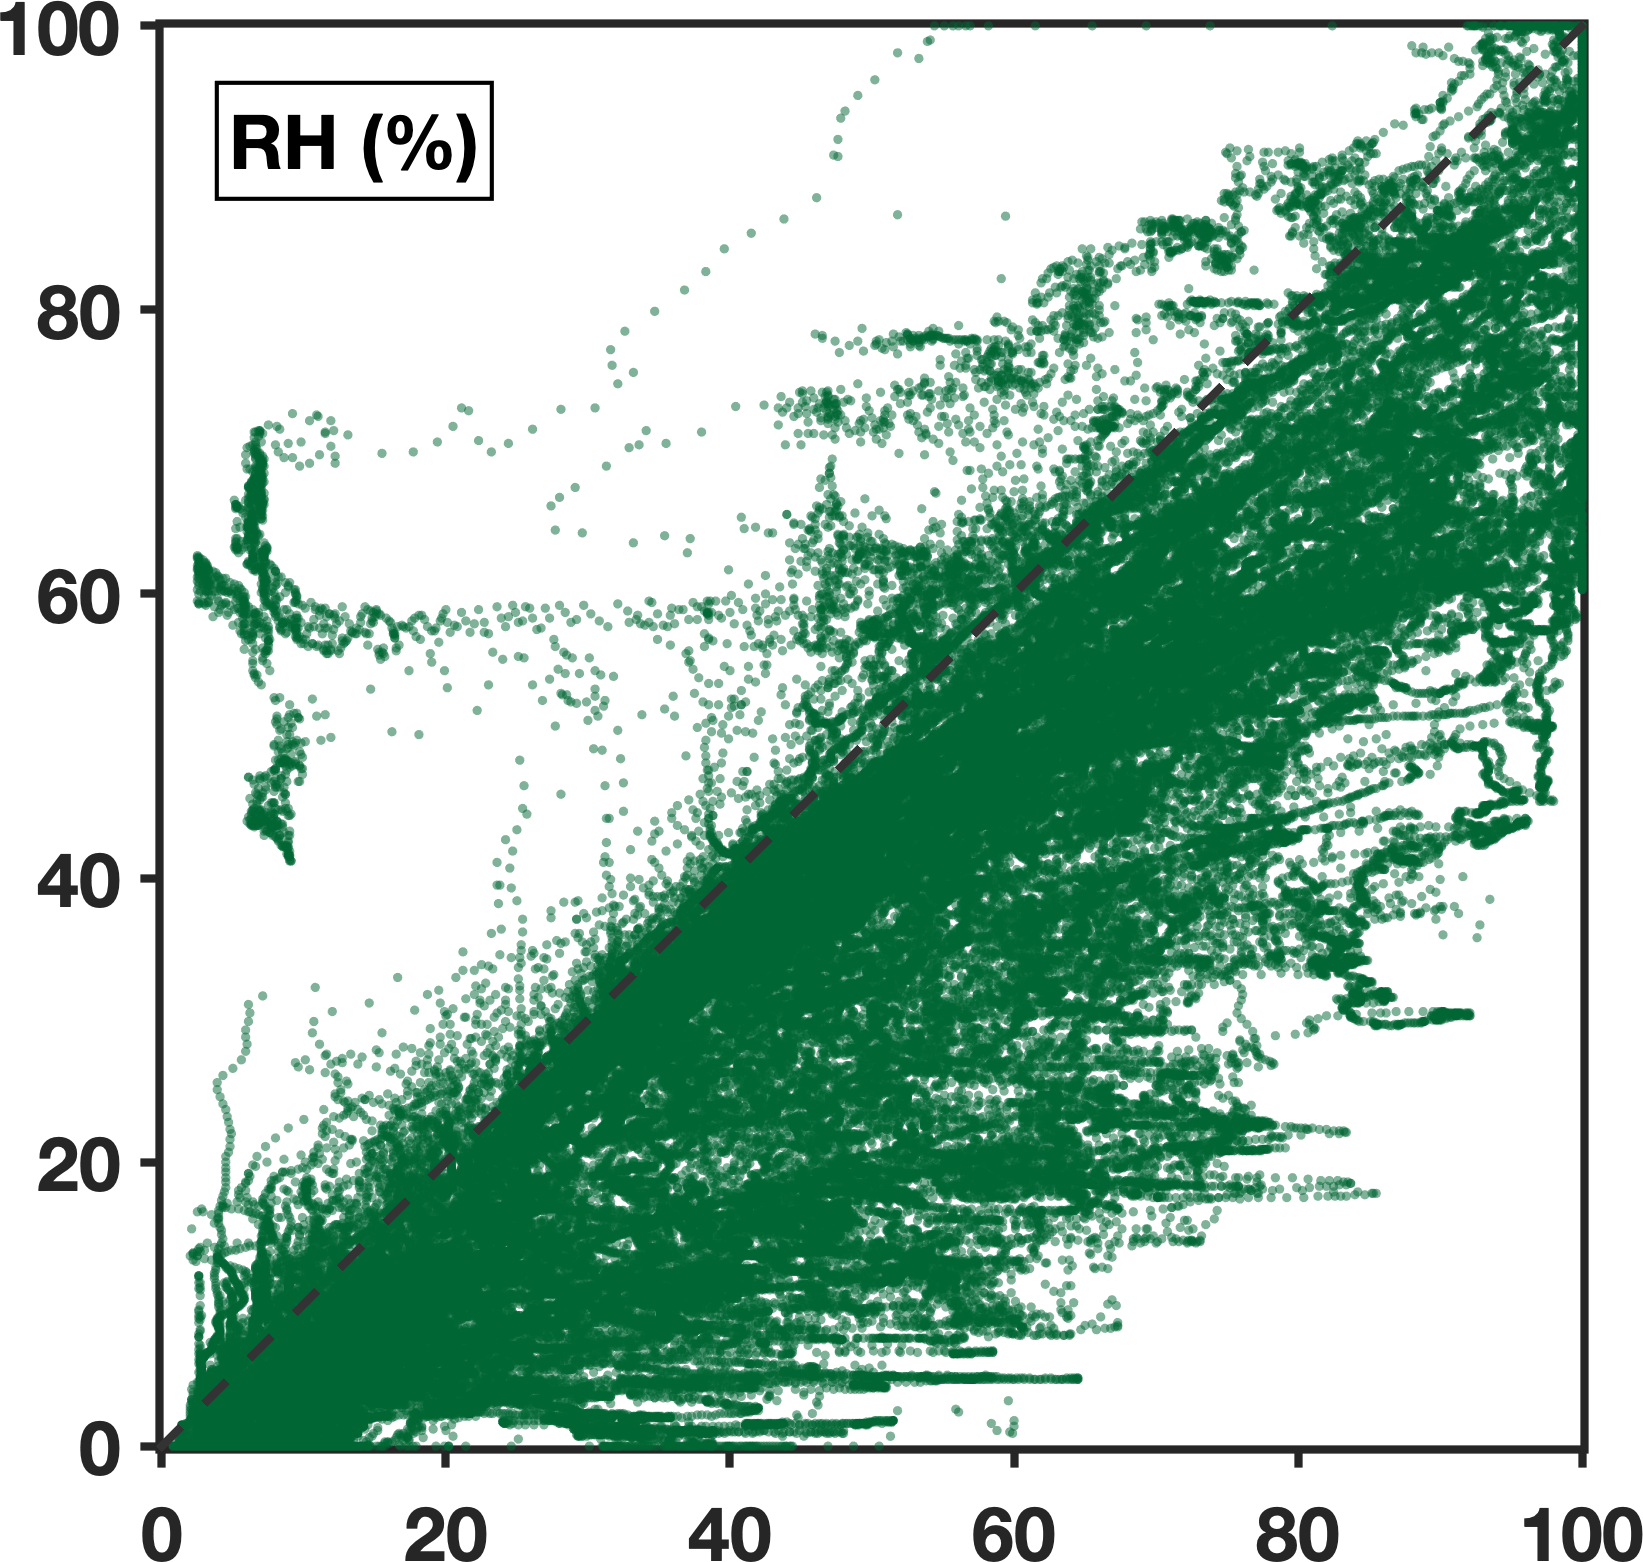
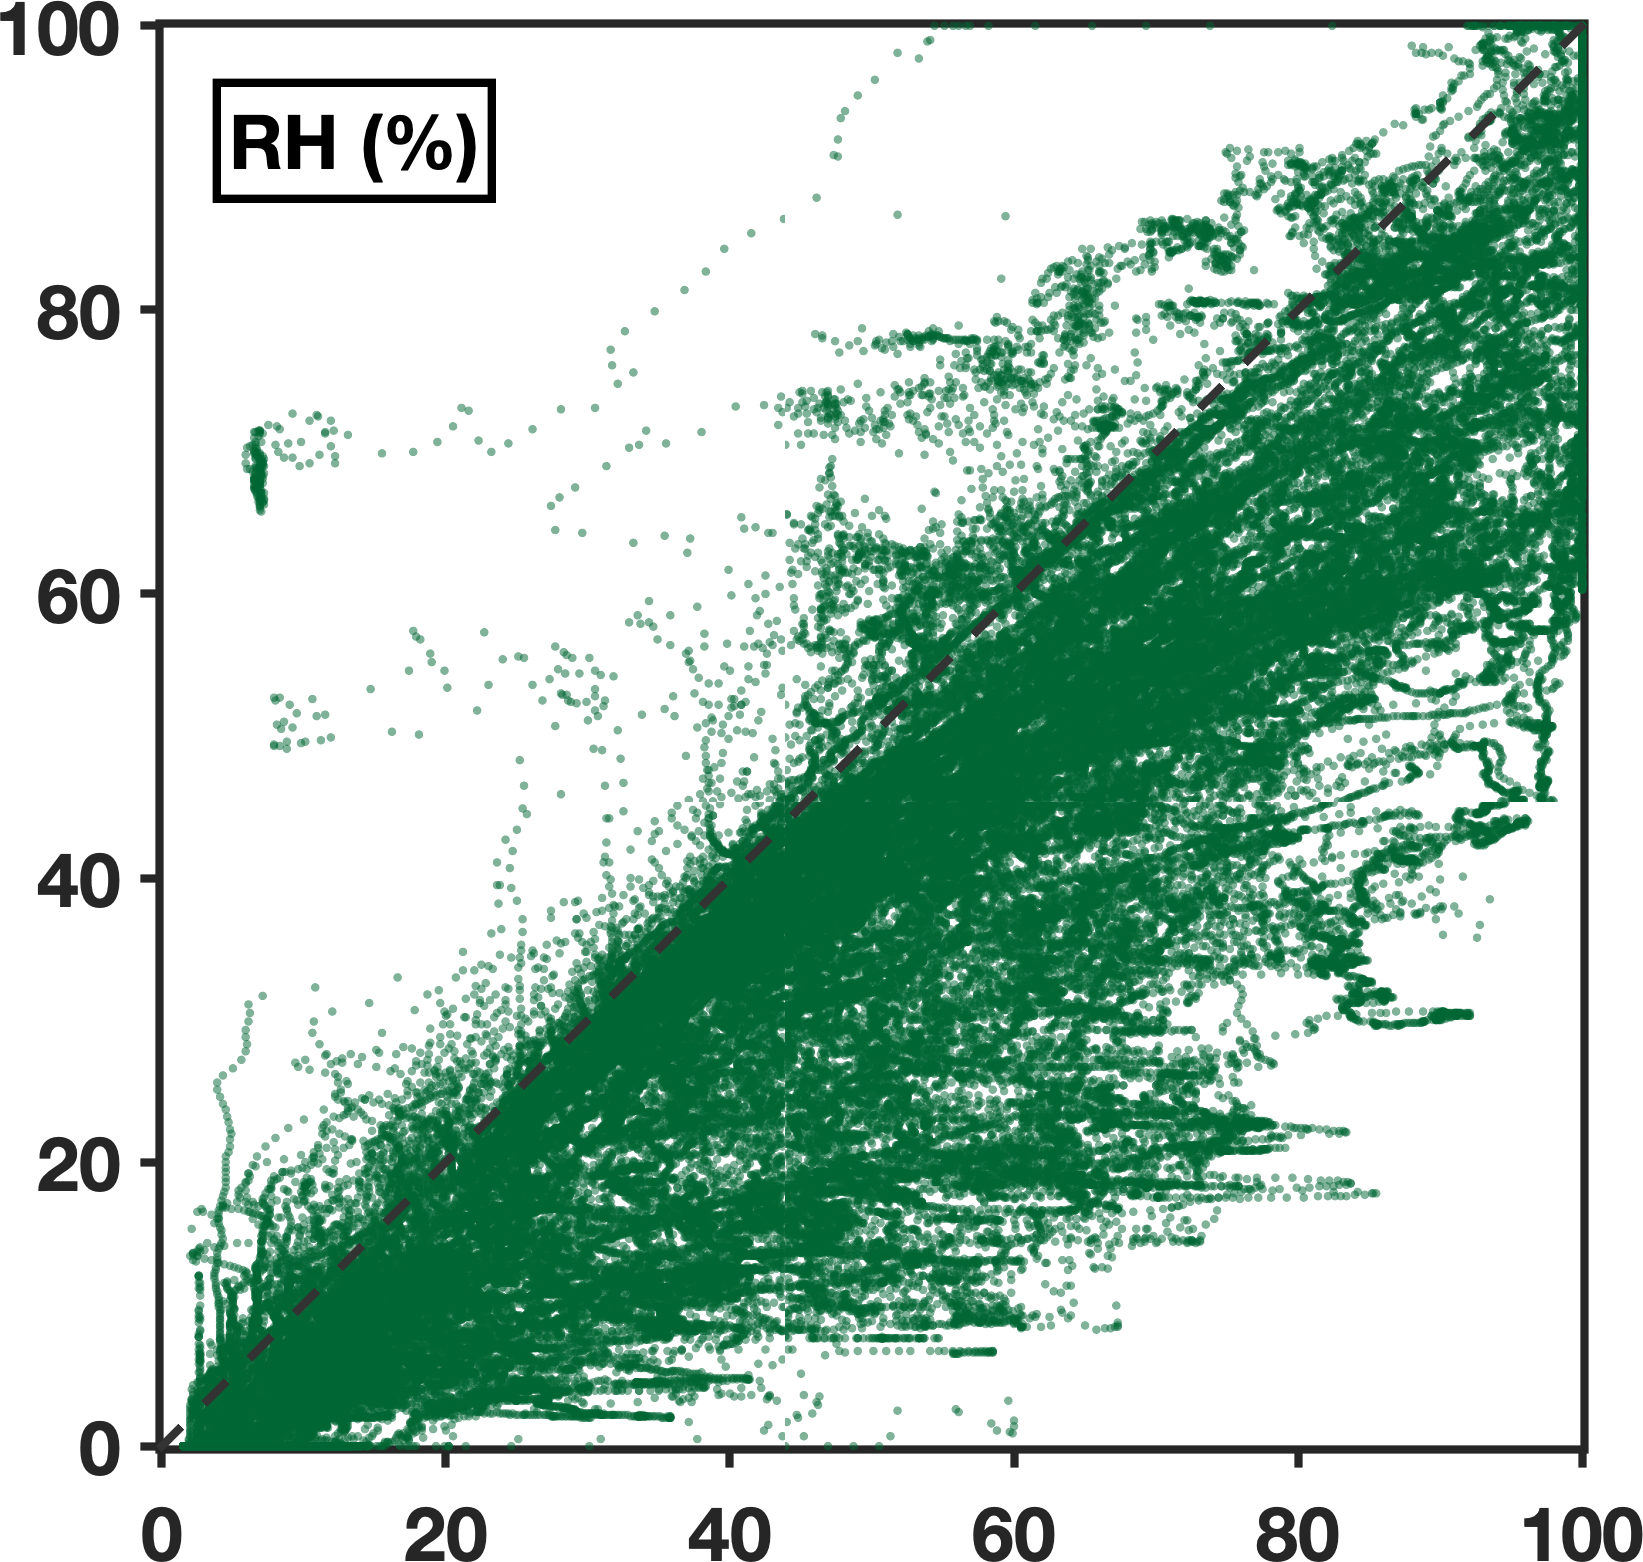
add ST L3 intercomp

diff --git a/ST_L2_L3_mat/Output_ST_L3_mat.m b/ST_L2_L3_mat/Output_ST_L3_mat.m
@@ -1,0 +1,243 @@
+clear; close; clc;
+
+addpath(genpath('/Users/yuhungjui/OneDrive/Work/MatLAB_TOOLS/'));
+
+tic;
+
+% ==============================================================================
+% 
+% Load PRECIP-2021 upper-air radiosonde data.
+% 
+% Transfer each data from L2 (.mat-format, QCed) to L3
+% (.mat-format, sfc. P GCed, T, RH corrected based on CDF hours/Nighttime).
+% 
+% GC Basis: 2018-2020 PTU mean biases (420/431 STs except outliers)
+%           2018-2019 PTU mean biases (202/209 STs except outliers)
+%           2020      PTU mean biases (218/222 STs except outliers)
+% 
+% CDF basis: 2018-2020 CDF Correction Tables at 00Z, 03Z, 06Z, 09Z, and Nighttime.
+% 
+% ==============================================================================
+
+%% Set file parameters:
+
+% Station number:
+project_no = 'precip21'
+
+% Year:
+year_no = {'2021'};
+
+% Month:
+month_no = {'01','02','03','04','05','06','07','08','09','10','11','12'};
+
+% I/O:
+L2_input_type = 'L2'
+L3_output_type = 'L3_TASSE'
+
+% ==============================================================================
+
+%% Load GC Correction Table:
+
+correction_table_path = '../../../../PRECIP21_Radiosonde_QC/ST_Correction/Correction_Table_TASSE';
+
+load([correction_table_path,'/GC/GC_PTU_18_20_D10.mat']);
+
+% ==============================================================================
+
+%% Load CDF-Matching Correction Table:
+
+% CDF_TC_00Z = importdata([correction_table_path,'/CDF_MATCHING/2018_2020/CDF_P_100hPa_L3_GC_P_T_2018_2020_(00Z_164).mat']);
+% CDF_TC_03Z = importdata([correction_table_path,'/CDF_MATCHING/2018_2020/CDF_P_100hPa_L3_GC_P_T_2018_2020_(03Z_60).mat']);
+% CDF_TC_06Z = importdata([correction_table_path,'/CDF_MATCHING/2018_2020/CDF_P_100hPa_L3_GC_P_T_2018_2020_(06Z_55).mat']);
+% CDF_TC_09Z = importdata([correction_table_path,'/CDF_MATCHING/2018_2020/CDF_P_100hPa_L3_GC_P_T_2018_2020_(09Z_29).mat']);
+load([correction_table_path,'/CDF_MATCHING/2018_2020/CDF_P_100hPa_L3_GC_P_T_2018_2020_(Day_308).mat']);
+% CDF_TC_Night = importdata('../../../../Research/NTU_DMLab/research/TAWSE2020_StormTracker_CORR/Correction_Table/CDF_MATCHING/2018_2020/CDF_P_100hPa_L3_GC_P_T_2018_2020_(Night_123).mat');
+
+% CDF_RH_00Z = importdata([correction_table_path,'/CDF_MATCHING/2018_2020/CDF_T_10C_L2_RH_2018_2020_(00Z_164).mat']);
+% CDF_RH_03Z = importdata([correction_table_path,'/CDF_MATCHING/2018_2020/CDF_T_10C_L2_RH_2018_2020_(03Z_60).mat']);
+% CDF_RH_06Z = importdata([correction_table_path,'/CDF_MATCHING/2018_2020/CDF_T_10C_L2_RH_2018_2020_(06Z_55).mat']);
+% CDF_RH_09Z = importdata([correction_table_path,'/CDF_MATCHING/2018_2020/CDF_T_10C_L2_RH_2018_2020_(09Z_29).mat']);
+load([correction_table_path,'/CDF_MATCHING/2018_2020/CDF_T_10C_L2_RH_2018_2020_(Day_308).mat']);
+% CDF_RH_Night = importdata('../../../../Research/NTU_DMLab/research/TAWSE2020_StormTracker_CORR/Correction_Table/CDF_MATCHING/2018_2020/CDF_T_10C_L2_RH_2018_2020_(Night_123).mat');
+a
+% ==============================================================================
+
+%% Load P1LDC Correction Table:
+
+P1LDC_RH_00Z = importdata([correction_table_path,'/P1LDC/P1LDC_RH_L3_GC_P_CDFhr_T_RH_2018_2020_(00Z_164).mat']);
+P1LDC_RH_03Z = importdata([correction_table_path,'/P1LDC/P1LDC_RH_L3_GC_P_CDFhr_T_RH_2018_2020_(03Z_60).mat']);
+P1LDC_RH_06Z = importdata([correction_table_path,'/P1LDC/P1LDC_RH_L3_GC_P_CDFhr_T_RH_2018_2020_(06Z_55).mat']);
+P1LDC_RH_09Z = importdata([correction_table_path,'/P1LDC/P1LDC_RH_L3_GC_P_CDFhr_T_RH_2018_2020_(09Z_29).mat']);
+P1LDC_RH_Night = importdata([correction_table_path,'/P1LDC/P1LDC_RH_L3_GC_P_CDFhr_T_RH_2018_2020_(Night_123).mat']);
+
+% ==============================================================================
+
+%% Load files and output:
+
+fileID = fopen('./log.txt','w');
+
+%% File path:
+L2_input_file_path  = ['../',L2_input_type,'_mat/',year_no{1},'/'];
+L3_output_file_path = ['./',year_no{1},'/'];
+
+data_L2_list = dir([L2_input_file_path,'*.mat']);
+
+%% Import data
+
+for fi = 1:length(data_L2_list)
+    
+    data_L2 = importdata([L2_input_file_path,data_L2_list(fi).name],'');
+    
+    tmp_data.NominalTime    = data_L2.NominalTime;
+    tmp_data.ST_No          = data_L2.ST_No;
+    tmp_data.LaunchLocation = data_L2.LaunchLocation;
+    tmp_data.LaunchTime     = data_L2.LaunchTime;
+    % tmp_data.Station        = data_L2.Station;
+    tmp_data.TIME_SEC       = data_L2.TIME_SEC;
+    tmp_data.TIME           = data_L2.TIME;
+    
+    tmp_data.Z_GPS          = data_L2.Z_GPS;
+    tmp_data.U              = data_L2.U;
+    tmp_data.V              = data_L2.V;
+    tmp_data.WD             = data_L2.WD;
+    tmp_data.WS             = data_L2.WS;
+    tmp_data.LON            = data_L2.LON;
+    tmp_data.LAT            = data_L2.LAT;
+    % tmp_data.Sat_No_L0      = data_L2.Sat_No_L0;
+    % tmp_data.Volt_L0        = data_L2.Volt_L0;
+    
+    %% Apply GC to P:
+    
+    tmp_data.P              = data_L2.P - ( GC_PTU.P_bias.mean ); % hPa
+    
+    tmp_data.TC             = data_L2.TC; % deg-C
+    tmp_data.RH             = data_L2.RH; % %
+    
+    %% !!! Apply CDF 00, 03, 06, 09Z to T !!!
+    
+%     switch tmp_data.NominalTime.Hour
+%         case 0
+%             CDF_TC = CDF_TC_00Z;
+%         case 3
+%             CDF_TC = CDF_TC_03Z;
+%         case 6
+%             CDF_TC = CDF_TC_06Z;
+%         case 9
+%             CDF_TC = CDF_TC_09Z;
+%         otherwise
+%             CDF_TC = CDF_TC_Night;
+%     end
+    
+    [tmp_CDF_TC_P,tmp_CDF_TC_TC] = meshgrid(CDF_TC.P,CDF_TC.TC);
+    
+    for pi = 1:length(tmp_data.TC)
+        
+        tmp_CDF_Tdiff = interp2(tmp_CDF_TC_P,tmp_CDF_TC_TC,CDF_TC.BIAS',tmp_data.P(pi),tmp_data.TC(pi),'linear');
+        
+        tmp_data.TC(pi) = tmp_data.TC(pi) + (tmp_CDF_Tdiff); % w/ P_GCed + CDFhr_T
+        
+        clear tmp_CDF_Tdiff
+        
+    end
+    
+    clear tmp_CDF_*
+    
+    %% !!! Apply CDF 00, 03, 06, 09Z to RH (AFTER T CORRECTED) !!!
+    
+%     switch tmp_data.NominalTime.Hour
+%         case 0
+%             CDF_RH = CDF_RH_00Z;
+%         case 3
+%             CDF_RH = CDF_RH_03Z;
+%         case 6
+%             CDF_RH = CDF_RH_06Z;
+%         case 9
+%             CDF_RH = CDF_RH_09Z;
+%         otherwise
+%             CDF_RH = CDF_RH_Night;
+%     end
+    
+    [tmp_CDF_RH_TC,tmp_CDF_RH_RH] = meshgrid(CDF_RH.TC,CDF_RH.RH);
+    
+    for tci = 1:length(tmp_data.RH)
+        
+        tmp_CDF_RHdiff = interp2(tmp_CDF_RH_TC,tmp_CDF_RH_RH,CDF_RH.BIAS',tmp_data.TC(tci),tmp_data.RH(tci),'linear');
+        
+        tmp_data.RH(tci) = tmp_data.RH(tci) + (tmp_CDF_RHdiff); % w/ P_GCed + CDFhr_T_RH
+        
+        clear tmp_CDF_RHdiff
+        
+    end
+    
+    clear tmp_CDF_*
+    
+    %% !!! Apply P1LDC 00, 03, 06, 09Z to RH (AFTER RH CDF-matching CORRECTED) !!!
+    
+%     switch tmp_data.NominalTime.Hour
+%         case 0
+%             P1LDC_RH = P1LDC_RH_00Z;
+%         case 3
+%             P1LDC_RH = P1LDC_RH_03Z;
+%         case 6
+%             P1LDC_RH = P1LDC_RH_06Z;
+%         case 9
+%             P1LDC_RH = P1LDC_RH_09Z;
+%         otherwise
+%             P1LDC_RH = P1LDC_RH_Night;
+%     end
+%     
+%     tmp_P1LDC_RHdiff = interp1(P1LDC_RH.P,P1LDC_RH.DIFF_MEAN,tmp_data.P);
+%     
+%     tmp_data.RH = tmp_data.RH + (-tmp_P1LDC_RHdiff); % w/ P_GCed + CDFhr_T_RH + P1LDC_RH
+%     
+%     clear tmp_P1LDC_*
+    
+    %% Corrected Fields Derivation:
+    
+    for pi = 1:numel(data_L2.TIME_SEC)
+        
+        % For Geopotential Height:
+%         if ( pi == 1 )
+%             tmp_data.Z(pi,1) = tmp_data.LaunchLocation(3);
+%         else
+%             tmp_data.Z(pi,1) = tmp_data.LaunchLocation(3) + hydro_height(tmp_data.P(pi),tmp_data.TC(pi),tmp_data.P(1));
+%         end
+        
+        % For Dew-point Temperature:
+        tmp_data.TD(pi,1) = convert_humidity_RH_Td_yhj(tmp_data.TC(pi),tmp_data.RH(pi));
+        
+        % For RH w.r.t. Ice:
+        tmp_data.RHI(pi,1) = convert_humidity_TTd_RHI_yhj(tmp_data.TC(pi,1)+273.15,tmp_data.TD(pi,1)+273.15);
+        
+    end
+    
+    %% Set output files names:
+    
+    fprintf(fileID,'%s\n',[data_L2_list(fi).name,' done.']);
+    
+    % disp([year_no{year_id},month_no{month_id},tmp_data.Time(7:8),tmp_data.Time(9:10),' done.']);
+    
+    eval([ 'ST_L3_',data_L2_list(fi).name(10:end-4),' = tmp_data;' ]);
+    
+    %% Output the data:
+    
+    L3_output_file_name = [L3_output_file_path,project_no,'_',data_L2_list(fi).name(10:end-4),'.mat'];
+    
+    save(L3_output_file_name,'ST_L3_*');
+    
+    fprintf(fileID,'%s\n',[L3_output_file_path,project_no,'_',data_L2_list(fi).name(10:end-4),' data saved.']);
+    
+    % disp([L2_output_file_path,station_no,'_',year_no{year_id},month_no{month_id},' data saved.'])
+    
+    clear tmp_data
+    clear ST_L3_*
+    
+end
+
+fclose(fileID);
+
+% ==============================================================================
+
+toc;
+
+

diff --git a/ST_Correction/Intercomparison/Plot_scatter_ST_RS_1var.m b/ST_Correction/Intercomparison/Plot_scatter_ST_RS_1var.m
@@ -25,7 +25,8 @@ year_no = {'2021'};
 
 % Data info:
 
-ST_Level = 'L2';
+% ST_Level = 'L2';
+ST_Level = 'L3_TASSE';
 % ST_Level = 'L3_GC_P';
 % ST_Level = 'L3_GC_P_CDFhr_T';
 % ST_Level = 'L3_GC_P_CDFhr_T_RH';
@@ -86,7 +87,7 @@ plot_var_ST = {[],[],[],[],[],[],[]};
 test_var_st = [];
 test_var_per = [];
 
-varid = 7;
+varid = 4;
 
 ssi = 1;
 
@@ -128,7 +129,7 @@ for vari = varid % one variable.
             ssi = ssi+1;
             
             %% FILTER DATA BY PRESSURE:
-            tmp_data_ST_pid = find(tmp_data_ST.P>=10);
+            tmp_data_ST_pid = find(tmp_data_ST.P>=200);
             tmp_data_ST.TIME_SEC = tmp_data_ST.TIME_SEC(tmp_data_ST_pid);
             eval([ 'tmp_data_ST.',process_vars_name{vari},' = tmp_data_ST.',process_vars_name{vari},'(tmp_data_ST_pid);' ]);
             
